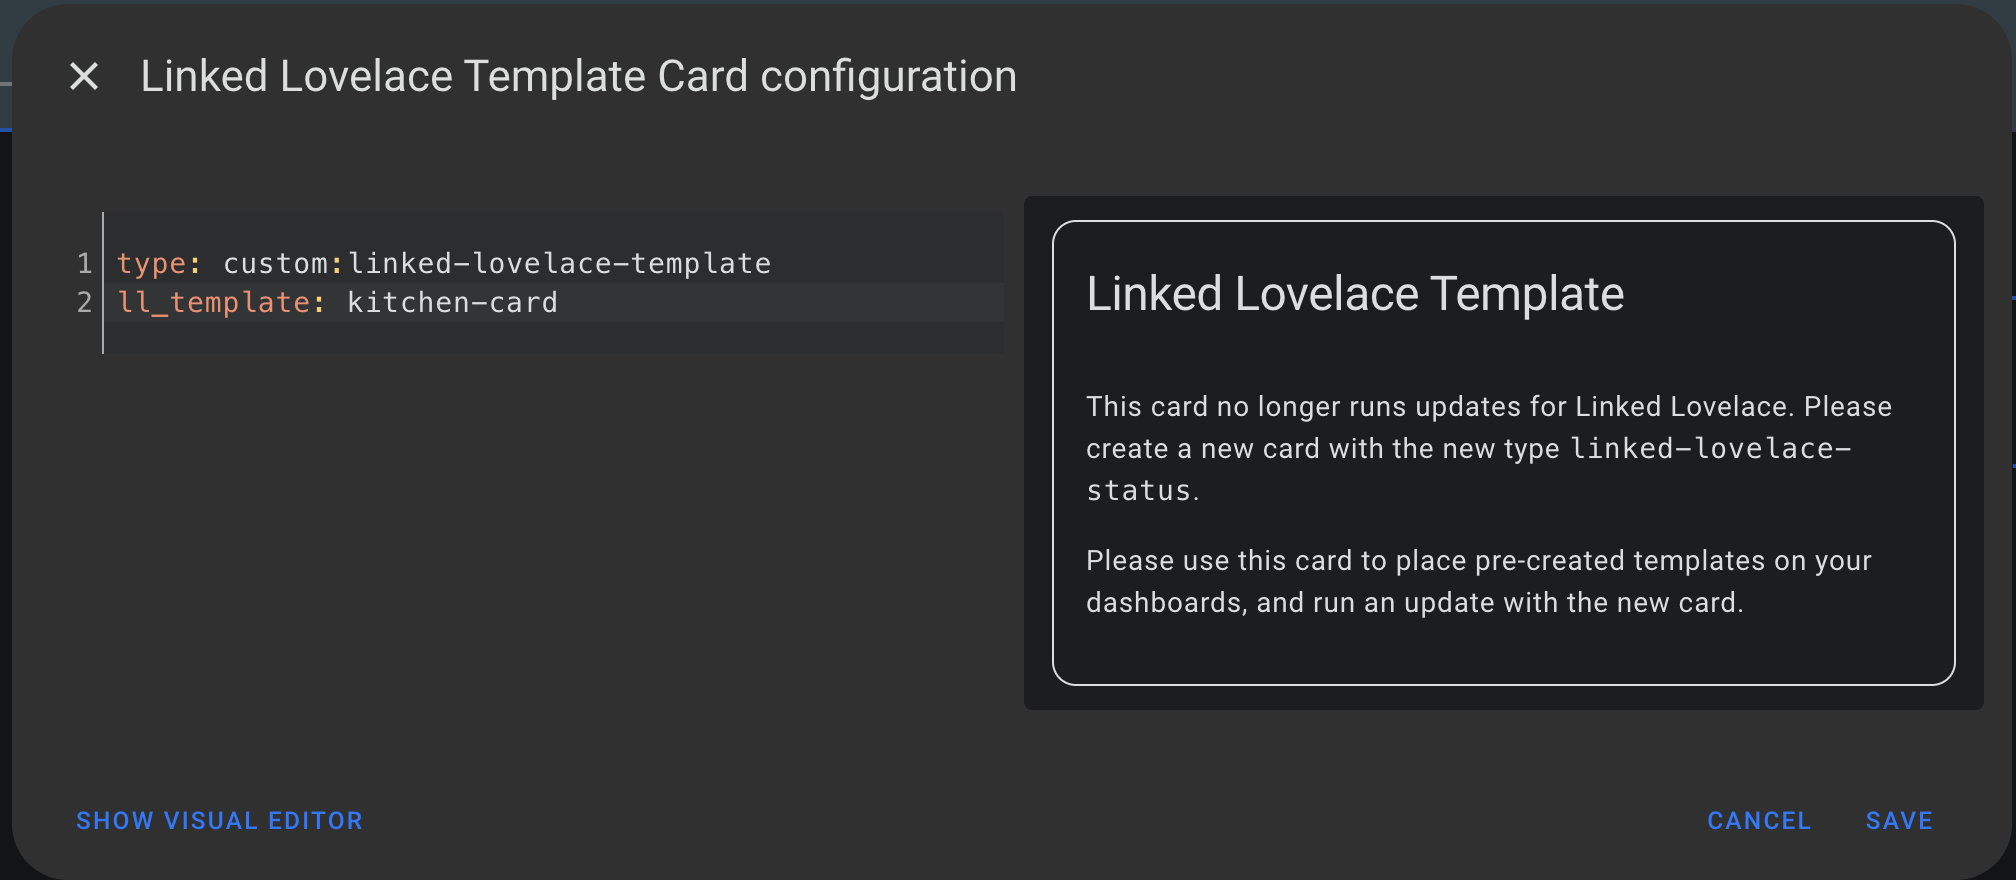
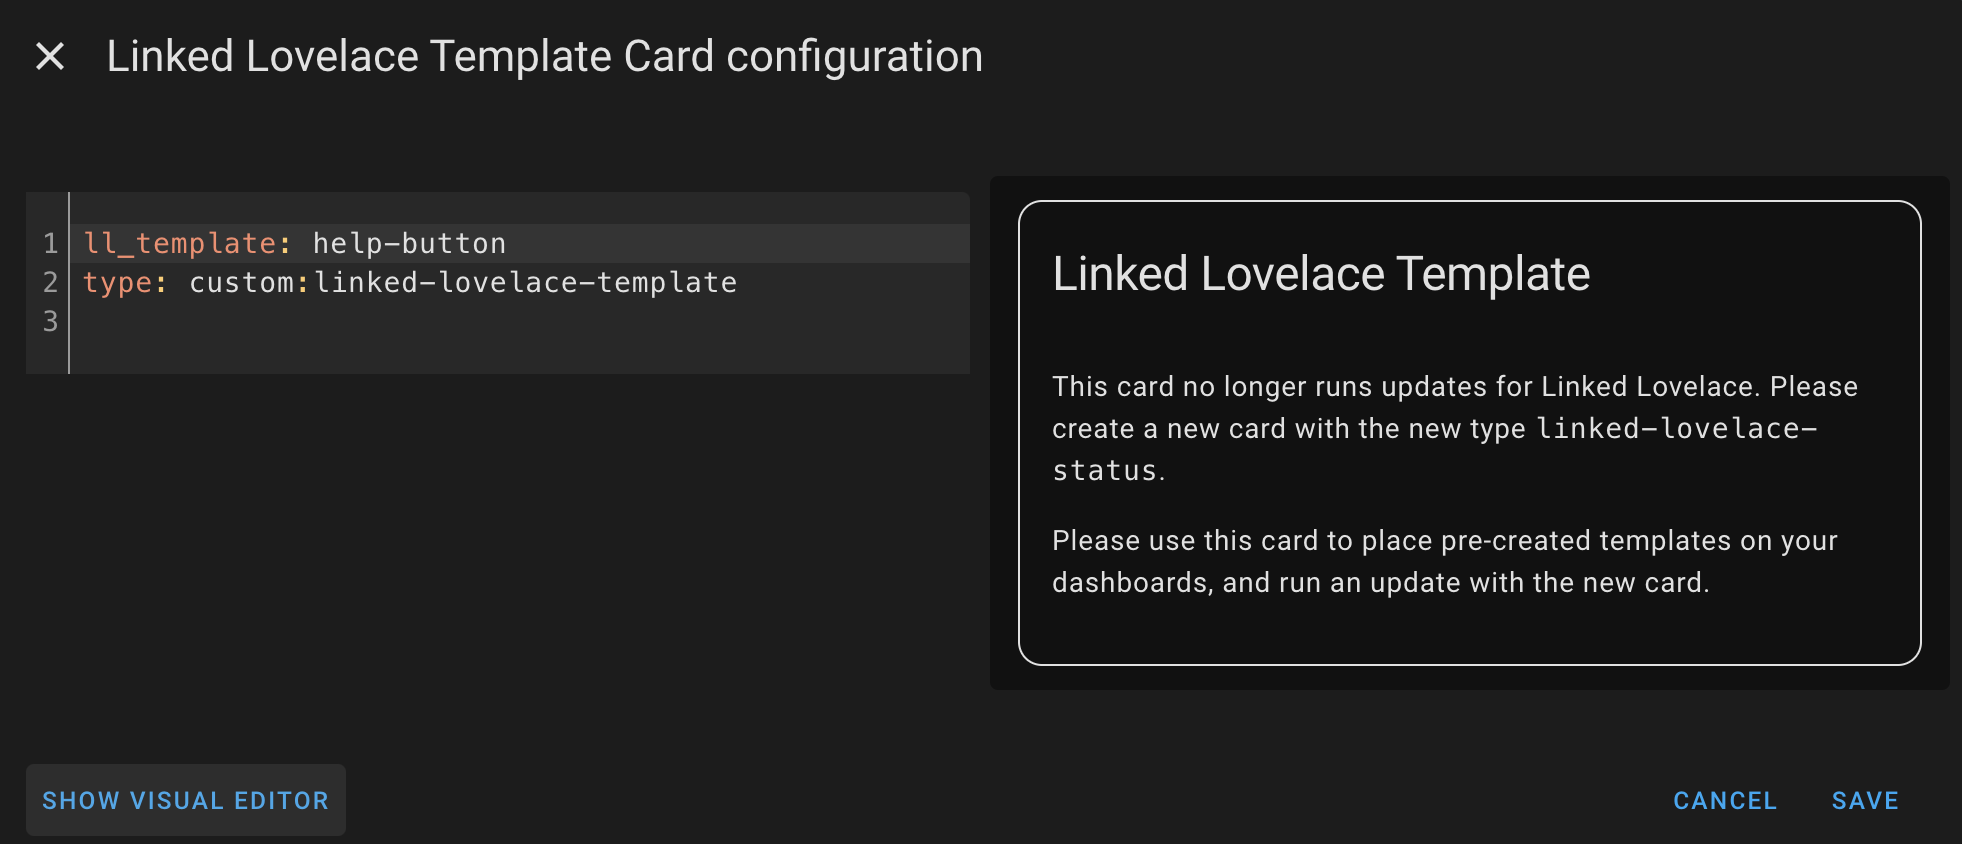
create doc site gifs

diff --git a/src/linked-lovelace-status.ts b/src/linked-lovelace-status.ts
@@ -332,7 +332,8 @@ export class LinkedLovelaceStatusCard extends LitElement {
         </div>
         `: ''}
         </div>
-        ${diffedDashboardKeys.length ? html`
+        ${diffedDashboardKeys.length && this._difference ? html`
+        <div class="tab-content ${this._tab === TAB_DASHBOARDS ? 'active' : ''}">
         <div class="unsafe-html">
         <div class="accordion expanded">
         <span class="accordion-bar" @click=${this.toggleShowDryRun}><span class="icon">${this._show_difference ? html`&#9660;` : html`&#9658;`} </span><span class="title">Preview Changes</span></span>
@@ -358,6 +359,7 @@ export class LinkedLovelaceStatusCard extends LitElement {
         })}
         </div>` : ''}
         `}
+        </div>
         </div>
         ` : ''}
         <div class="card-actions">

diff --git a/docs_site/create-your-first-template.md b/docs_site/create-your-first-template.md
@@ -11,34 +11,60 @@ Linked Lovelace runs commands on behalf of the user's browser to modify dashboar
 __Always back-up your configs if you feel unsure about what you are about to do!__
 :::
 
-## Create A Reusable Card
+## What defines a card as reusable?
 
-By reusable card, we're looking to create a card that we want to use on more than one view or dashboard.
+In our case, it would be a card that we want to use multiple times.
 
-If you aren't setting up Home Assistant from scratch right now, you probably don't need to create a card, as any card can become your first template!
+Without Linked Lovelace, the only way to synchronize a card made in the UI is to copy the code in the code editor, and paste it where you want the update to go.
 
-If you are setting up Home Assistant from scratch right now, create any card you want.
+*The Copy Paste Method*
+![The Copy Paste Method](./images/copy-paste-update-method.gif)
 
-## Make it a template
+For our example, we'll be creating a button card that creates a persistent notification to help demonstrate synchronization.
 
-To mark a card as a template for Linked Lovelace to consume, we need to add the key `ll_key` to the top-level of the card's YAML.
+## Making a card into a template
+
+To mark a card as a template for Linked Lovelace to consume, we need to add the key `ll_key` to the top-level of the card's YAML. This will break the UI editor.
 
 Before:
 
 ```yaml
-type: light
-entity: light.kitchen
+show_name: true
+show_icon: true
+type: button
+tap_action:
+  action: call-service
+  service: notify.persistent_notification
+  target: {}
+  data:
+    message: A user needs help
+    title: Help Wanted!
+icon: mdi:help
+name: Request Help
 ```
 
 After:
 
 ```yaml
-ll_key: kitchen-card
-type: light
-entity: light.kitchen
+ll_key: help-button
+show_name: true
+show_icon: true
+type: button
+tap_action:
+  action: call-service
+  service: notify.persistent_notification
+  target: {}
+  data:
+    message: A user needs help
+    title: Help Wanted!
+icon: mdi:help
+name: Request Help
 ```
 
-By adding this single line Linked Lovelace becomes able to identify `kitchen-card` as a template.
+By adding this single line Linked Lovelace becomes able to identify `help-button` as a template.
+
+*Converting a card into a template*
+![Converting a card into a template](./images/convert-to-template.gif)
 
 ## Use the template
 
@@ -46,8 +72,11 @@ Now that we've created our first template, we'll use the Template card to help u
 
 1. Use the UI Selector to choose the Linked Lovelace Template card `type: custom:linked-lovelace-template`. This card will look up our available templates, and swap the code needed for the Status card to work properly into place with just a button click.
 ![Linked Lovelace Template Card](./images/linked-lovelace-template-card.png)
-2. Modify any new or existing card yaml to have the top level key `ll_template` with a value that matches the `ll_key` value we created earlier. In our example. this would be `kitchen-card`.
+2. Modify any new or existing card yaml to have the top level key `ll_template` with a value that matches the `ll_key` value we created earlier. In our example. this would be `help-button`.
 ![Linked Lovelace Template Card Code](./images/linked-lovelace-template-card-code.png)
+
+*Using a template, both ways*
+![Using a template, both ways](./images/using-a-template.gif)
 
 ## Synchronize the template
 
@@ -55,21 +84,42 @@ While we've created our template and placed it on a dashboard, we haven't actual
 
 Before moving onto the next step, update your original card, the one with `ll_key` to have some difference. Any at all! It can be purely in the code editor, but it's much more satisfying to see some visual change get synchronized.
 
+For our example, we'll edit the message just slightly.
+
 Before:
 
 ```yaml
-ll_key: kitchen-card
-type: light
-entity: light.kitchen
+ll_key: help-button
+show_name: true
+show_icon: true
+type: button
+tap_action:
+  action: call-service
+  service: notify.persistent_notification
+  target: {}
+  data:
+    message: A user needs help
+    title: Help Wanted!
+icon: mdi:help
+name: Request Help
 ```
 
 After:
 
 ```yaml
-ll_key: kitchen-card
-type: light
-entity: light.kitchen
-name: All Kitchen Lights
+ll_key: help-button
+show_name: true
+show_icon: true
+type: button
+tap_action:
+  action: call-service
+  service: notify.persistent_notification
+  target: {}
+  data:
+    message: A user clicked help
+    title: Help Wanted!
+icon: mdi:help
+name: Request Help
 ```
 
 Once that's done, move ahead to get started [using the Status card](./using-the-status-card)

diff --git a/docs_site/using-the-status-card.md b/docs_site/using-the-status-card.md
@@ -15,9 +15,11 @@ __Always back-up your configs if you feel unsure about what you are about to do!
 
 ## First Paint
 
-In the world of web development, there exists a metric called "Time to first paint". This represents the amount of time it takes for a user's device to draw something.
+When the card first shows up, it has no information loaded. **_This is intentional._**
 
-In our case, we want to minimize the time-to-first-paint as to be respectful to the user's device. The longer this takes, the more resources we are using - A.K.A killing the user's battery.
+In the world of web development, there exists a metric called "Time to First Paint". This represents the amount of time it takes for a user's device to draw something on the screen.
+
+In our case, we want to minimize the time-to-first-paint as the longer this takes, the more resources we are using - A.K.A killing the user's battery.
 
 To this end, the status card performs no actions when being loaded. We wait for user input before collecting information for the card to use.
 
@@ -38,32 +40,47 @@ After first paint, the user should see two buttons - `Activate Console Logging` 
 
 - After doing so, it will automatically perform a dry-run with the found changes and store the differences.
 
-![Linked Lovelace Status Loaded Card](./images/linked-lovelace-status-loaded.png)
-
 ## Loaded Tabs
 
 Once data has been loaded, the card will display the following tabs.
 
 ### Dashboards
 
-- If nothing shows when this is selected, then there is nothing found to update!
-- If there are updates that can occur, each dashboard will have the code changes minimized, as well as a button to update that specific dashboard. Expand them to review any changes.
-- There is also a button to update every dashboard in one click. Great for experts, but definitely a risky click after making changes!
+![Linked Lovelace Status Loaded Card](./images/linked-lovelace-status-loaded.png)
+
+If nothing shows when this is selected, then there is nothing found to update!
+
+If there are updates that can occur, each dashboard will have the code changes minimized, as well as a button to update that specific dashboard. Expand them to review any changes.
+
+![Linked Lovelace Status Loaded Card](./images/linked-lovelace-dashboard-diff.png)
+
+There is also a button to update every dashboard in one click. Great for experts, but definitely a risky click after making changes!
 
 ### Templates
 
-- This tab contains a list of hyperlinks to the templates that are found by Linked Lovelace.
-- It also has an expansion arrow to quickly check the code for each template.
+This tab contains a list of hyperlinks to the templates that are found by Linked Lovelace.
+
+It also has an expansion arrow to quickly check the code for each template.
+
+![Linked Lovelace Status Templates Card](./images/linked-lovelace-status-templates.png)
 
 ### Partials
 
-- This tab is identical to the templates tab, except that it focuses on all discovered partials.
+This tab is identical to the templates tab, except that it focuses on all discovered partials. We haven't discussed these yet.
 
 ### Logs
 
-- This tab contains a scrollable text box featuring logs for each action that has occurred.
-- If console logging is activated, a more detailed version of each log should be available in the browser logs.
-- This is purely a debugging tool.
+This tab contains a scrollable text box featuring logs for each action that has occurred.
+
+If console logging is activated, a more detailed version of each log should be available in the browser logs.
+
+__*This is purely a debugging tool.*__
+
+## Demonstration
+
+Given all we've discussed, let's put it into action.
+
+![Linked Lovelace Status Sync](./images/linked-lovelace-status-sync.gif)
 
 ## What's Next?
 
@@ -71,4 +88,4 @@ At this point you should be capable of creating a template from a new or existin
 
 With that, you've accomplished everything featured in `Linked Lovelace 1.0`.
 
-In `Linked Lovelace 2.0` the library [ETA JS](https://eta.js.org/) was introduced to provide powerful templating logic. Learn how to make use of this by [providing Template Context.](./providing-template-context)
+In `Linked Lovelace 2.0` the library [Eta JS](https://eta.js.org/) was introduced to provide powerful templating logic. Learn how to make use of this by [providing Template Context.](./providing-template-context)

diff --git a/docs_site/providing-template-context.md b/docs_site/providing-template-context.md
@@ -1,0 +1,104 @@
+---
+outline: deep
+---
+
+# Providing Template Context
+
+::: danger NOTE
+
+Linked Lovelace runs commands on behalf of the user's browser to modify dashboard configurations, not on behalf of the Home Assistant system. A user's access may modify the outcome of the program.
+
+__Always back-up your configs if you feel unsure about what you are about to do!__
+:::
+
+## Background
+
+Consider the following scenario.
+
+We have created the following template, `help-button`, to help us quickly make a card that a user can click to call the service that creates a persistent notification.
+
+```yaml
+ll_key: help-button
+show_name: true
+show_icon: true
+type: button
+tap_action:
+  action: call-service
+  service: notify.persistent_notification
+  target: {}
+  data:
+    message: A user needs help
+    title: Help Wanted!
+icon: mdi:help
+name: Request Help
+```
+
+By using what we know so far, we can place this button on multiple dashboards, and keeping the values such as the message or title synchronized with the original template card using the Status card.
+
+What if we want to alter the title on one dashboard, and have it use a default value for all the others? That's where template context comes into play.
+
+## What Powers Templating
+
+Templating is powered by [Eta JS](https://eta.js.org/docs/intro/syntax-cheatsheet). This is because **I didn't want to figure out how to use the Jinja library built into Home Assistant. _The documentation is weak_.**
+
+**If you would like to add support for Jinja templating, please [submit a PR.](https://github.com/daredoes/linked-lovelace-ui/pulls)**
+
+Practically speaking, this means we can use conditionals, loops, and variables.
+
+To use variables, we have to set variables. In Eta JS, variables can be accessed from the object `it`. `it` felt weird to me, luckily they provide a way to set this value to something else. So we use `context`, hopefully that's easy to remember!
+
+## Setting Context
+
+Now that we know about context and variables, we need to set the variables in our context.
+
+To do this, we can provide any card the top-level key `ll_context` - which is a [dictionary](https://gist.github.com/carlessanagustin/50dab6d642e34f8f617d#dictionary) - to add variables to our context.
+
+Given our example template above - `help-button` - we can update the template to use variables from our context to support a dynamic message. - fallback variable not yet supported.
+
+__We can__ help our users by providing some defaults that will get added to the code editor when using the Linked Lovelace Template card editor.
+
+**Unfortunately, this will break the beauty of our original template card.**
+
+```yaml
+ll_key: help-button
+ll_context:
+  message: A user needs help
+  title: Help Wanted!
+  name: Request Help
+show_name: true
+show_icon: true
+type: button
+tap_action:
+  action: call-service
+  service: notify.persistent_notification
+  target: {}
+  data:
+    message: <%= context.message %>
+    title: <%= context.title %>
+icon: mdi:help
+name: <%= context.name %>
+```
+
+## Using Context
+
+Thanks to the above template, we can create a customized version by adding the following lines to any card we want to mark for synchronization.
+
+```yaml
+ll_template: help-button
+ll_context:
+  message: A user needs help
+  title: Help Wanted!
+  name: Request Help
+```
+
+## Demonstration
+
+The following demonstration will update our template to use context, and create two variations of the card to demonstrate how they can use the same template while having different results.
+
+![Linked Lovelace Adding Context](./images/linked-lovelace-adding-context.gif)
+
+## What's Next?
+
+It's time for you to create your own powerful cards.
+
+We're working on providing some useful example cards, but as-is with most things in Home Assistant, you'll find that most of your templates are unique to your setup.

diff --git a/docs_site/getting-started.md b/docs_site/getting-started.md
@@ -13,14 +13,14 @@ outline: deep
 
 ::: danger NOTE
 
-Linked Lovelace runs commands on behalf of the user's browser to modify dashboard configurations, not on behalf of the Home Assistant system. A user's access may modify the outcome of the program.
+`Linked Lovelace` runs commands on behalf of the user's browser to modify dashboard configurations, not on behalf of the Home Assistant system. A user's access may modify the outcome of the program.
 
 __Always back-up your configs if you feel unsure about what you are about to do!__
 :::
 
 ### Preferred Setup
 
-Find us in the HACS plugin in `frontend` under `Linked Lovelace UI`
+Find us in the HACS plugin in `frontend` under `Linked Lovelace`
 ![HACS Install](./images/hacs-linked-lovelace.png)
 
 ## Up and Running
@@ -37,4 +37,6 @@ If it loads successfully, then we are up and running!
 
 ## What's Next?
 
-Now that we have Linked Lovelace installed, it's time to learn how to use it! Move ahead to learn how to [create your first template](./create-your-first-template)
+Now that we have Linked Lovelace installed, it's time to learn how to use it! 
+
+Move ahead to learn how to [create your first template.](./create-your-first-template)

diff --git a/docs_site/creating-partials.md b/docs_site/creating-partials.md
@@ -1,0 +1,14 @@
+---
+outline: deep
+---
+
+# Creating Partials
+
+::: danger NOTE
+
+Linked Lovelace runs commands on behalf of the user's browser to modify dashboard configurations, not on behalf of the Home Assistant system. A user's access may modify the outcome of the program.
+
+__Always back-up your configs if you feel unsure about what you are about to do!__
+:::
+
+Documentation Coming Soon
